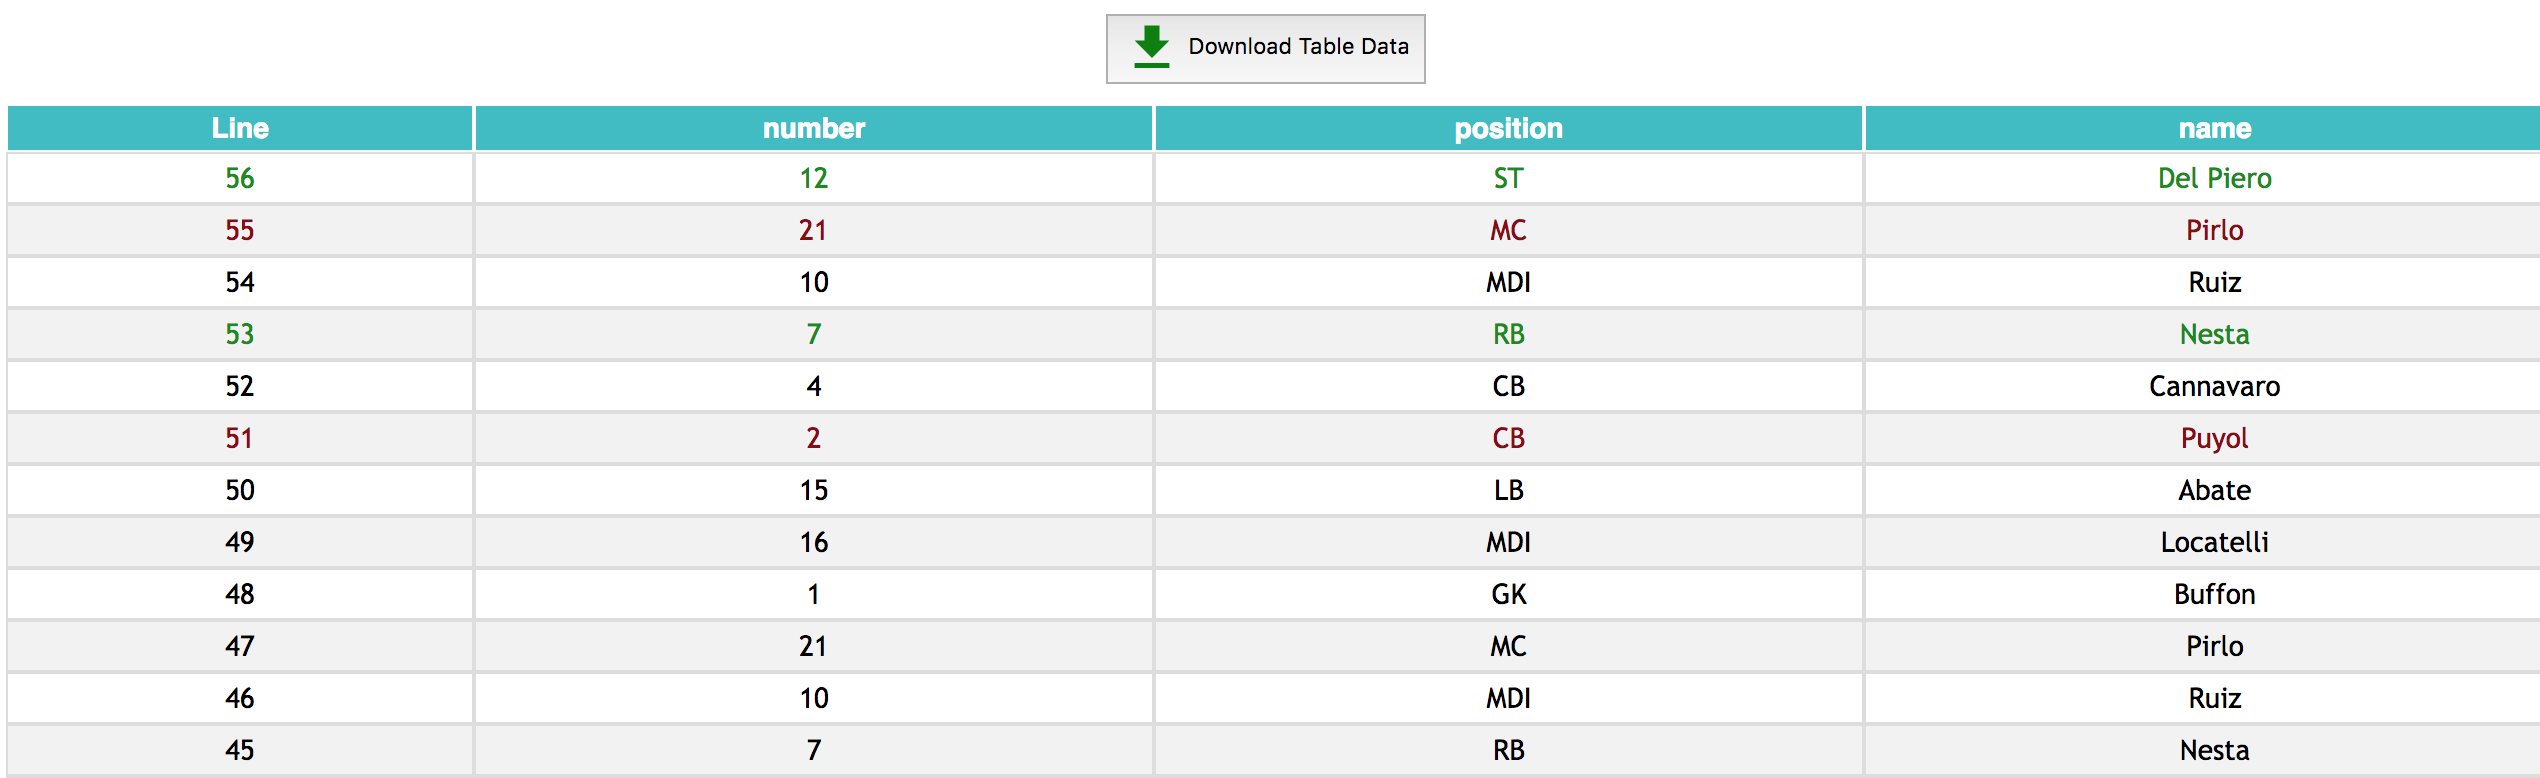
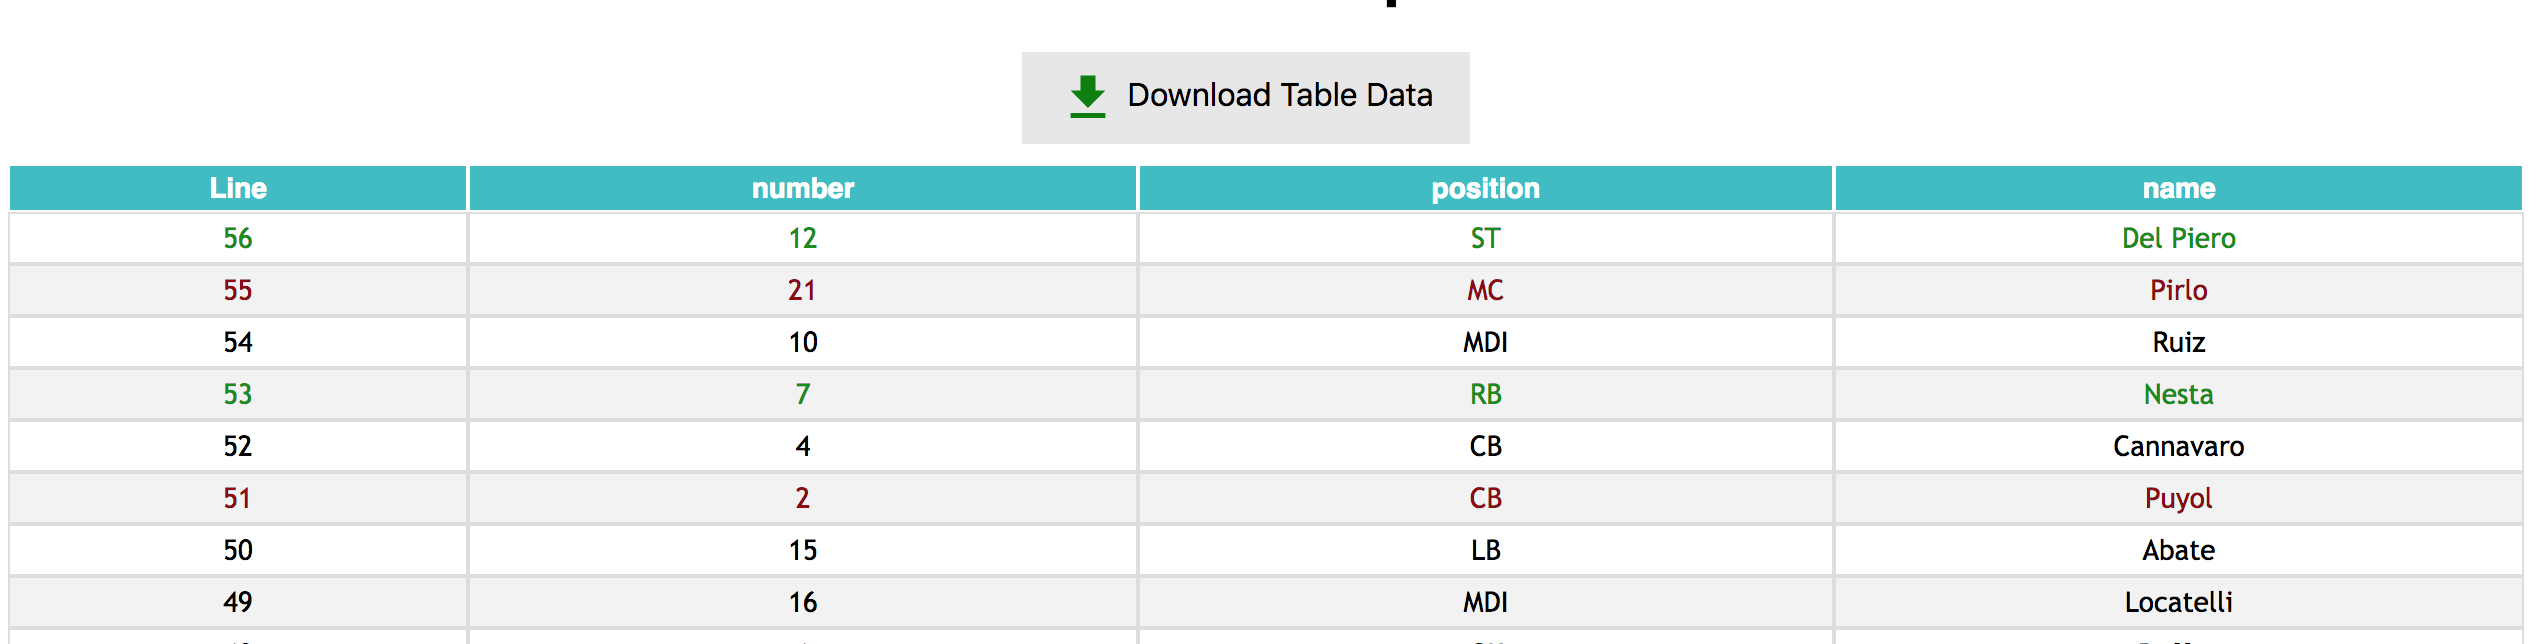
CSS changes and props added
New prop to customize download button
New default syling for buttons

diff --git a/src/index.js b/src/index.js
@@ -70,9 +70,10 @@ class TableViewer extends Component {
 
   renderDownload() {
     if (this.props.activateDownloadButton) {
+      let buttonStyle = this.props.downloadButtonStyle ? this.props.downloadButtonStyle : {};
       return (
         <div className="csvFileDownloader">
-          <button
+          <button style={buttonStyle}
             download={this.props.csvFileName}
             onClick={this.generateAndDownloadCSV}
           >

diff --git a/src/logViewer.css b/src/logViewer.css
@@ -161,4 +161,23 @@ tbody {
     100% { transform: rotate(360deg); }
 }
 
+button{
+  border: 3px solid #e7e7e7;
+  background-color: #e7e7e7;
+  color: #000;
+  padding: 5px 15px;
+  text-align: center;
+  text-decoration: none;
+  display: inline-block;
+  font-size: 16px;
+  -webkit-transition-duration: 0.4s; /* Safari */
+  transition-duration: 0.4s;
+}
+
+button:hover {
+    background-color: #FFF; /* Green */
+    color: #000;
+}
+
+
 

diff --git a/README.md b/README.md
@@ -111,10 +111,15 @@ Changes the background to white and the text to blue
 | pageBoxStyle| object | N | customize style of pagination box objects |
 | activePageBoxStyle| object | N | customize style of active box |
 | maxPagesToDisplay| int | N | how many elements will the paginator have. Default 6 |
+| downloadButtonStyle| object | N | download button customizations |
 
 
 
 #What's new
+v.0.3.17
+* Changed default download button
+* New prop for download button styling (downloadButtonStyle)
+
 v.0.3.16
 * Small default styling improvements
 
